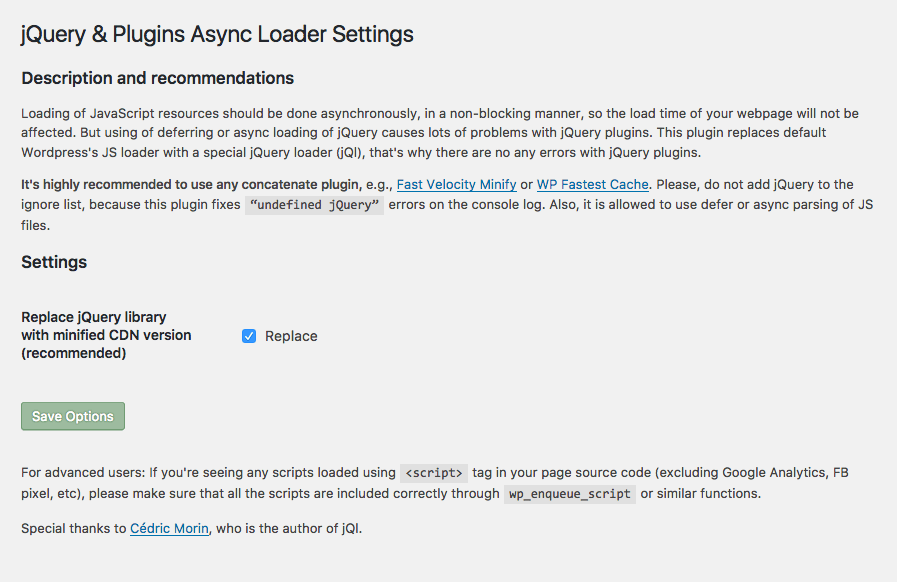
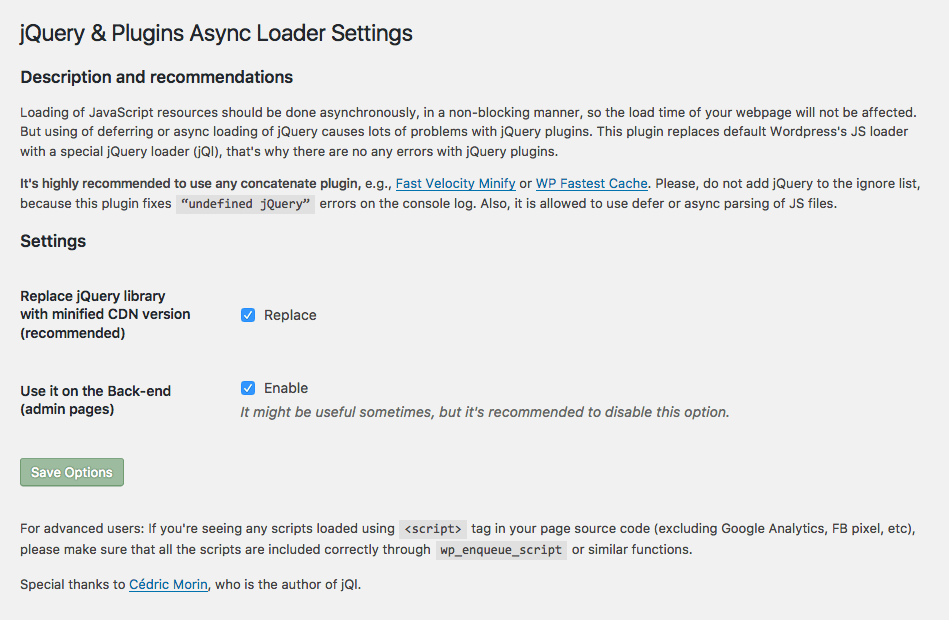
Minor bug fixes, admin processing, RU translation

diff --git a/trunk/jquery-async-loader.php b/trunk/jquery-async-loader.php
@@ -5,7 +5,7 @@
  * Description: Loading of JavaScript resources should be done asynchronously, in a non-blocking manner, so the load time of your webpage will not be affected. But using of deferring or async loading of jQuery causes lots of problems with jQuery plugins. This plugin replaces default Wordpress's JS loader with a special jQuery loader (jQl), that's why there are no any errors with jQuery plugins.
  * Author: Vitalii Rizo
  * Author URI: http://squirrel-research.ru
- * Version: 1.0
+ * Version: 1.1
  * Text Domain: jquery-async-loader
  *
  * Copyright: (c) 2017 Vitalii Rizo (kb@kernel-it.ru)
@@ -34,7 +34,7 @@ add_action( 'plugins_loaded', 'init_jquery_async_loader_options' );
 
 class jquery_async_loader_options {
 	// Current plugin version:
-	const VERSION = '1.0.0';
+	const VERSION = '1.1.0';
 	
 	// @var jquery_async_loader_options single instance of this plugin
 	protected static $instance;
@@ -64,6 +64,13 @@ class jquery_async_loader_options {
 				$this,
 				'add_plugin_links' 
 			) );
+
+			// add jQuery loader
+			add_action( 'admin_enqueue_scripts', array (
+				$this,
+				'jQuery_loader_script'
+			), 5 );
+
 		} else {
 			// Do things in front end
 			add_action( 'init', array (
@@ -76,14 +83,15 @@ class jquery_async_loader_options {
 				$this,
 				'jQuery_loader_script'
 			), 5 );
-			
-			// Modify <script> tags
-			add_filter( 'script_loader_tag', array (
-				$this,
-				'modify_script_tags'
-			), 10, 2 );
 
 		}
+
+		// Modify <script> tags
+		add_filter( 'script_loader_tag', array (
+			$this,
+			'modify_script_tags'
+		), 10, 2 );
+
 	}
 	
 	// Ensures only one instance is/can be loaded
@@ -145,8 +153,15 @@ class jquery_async_loader_options {
 	}
 
 	public function modify_script_tags( $tag ) {
+
+		$defaults = array(
+			'replace_jquery' => 1,
+			'enable_on_backend' => 0
+		);
+		$options = wp_parse_args(get_option('jquery_async_loader_options'), $defaults);
+
 		// Additional check to be sure that this code is not executed on admin pages:
-		if( is_admin() ) {
+		if( ( is_admin() ) && ( $options['enable_on_backend'] !== 1 ) ) {
 			return $tag;
 		}
 		
@@ -205,20 +220,21 @@ class jquery_async_loader_options {
 			$_REQUEST['settings-updated'] = false;
 		?>
 		<div class="wrap">
-			<h1><?php _e( 'jQuery & Plugins Async Loader Settings', 'jquery_async_loader' ) ?></h1>
+			<h1><?php _e( 'jQuery & Plugins Async Loader Settings', 'jquery-async-loader' ) ?></h1>
 			
 			<form action="options.php" method="post">
 				<?php
 				settings_fields('jquery_async_loader_options');
 				$defaults = array(
 					'replace_jquery' => 1,
+					'enable_on_backend' => 0
 				);
 				$options = wp_parse_args(get_option('jquery_async_loader_options'), $defaults);
 				?>
 			
-				<h2 class="title"><?php _e('Description and recommendations', 'jquery_async_loader'); ?></h2>
+				<h2 class="title"><?php _e('Description and recommendations', 'jquery-async-loader'); ?></h2>
 
-				<p><?php _e( "Loading of JavaScript resources should be done asynchronously, in a non-blocking manner, so the load time of your webpage will not be affected. But using of deferring or async loading of jQuery causes lots of problems with jQuery plugins. This plugin replaces default Wordpress's JS loader with a special jQuery loader (jQl), that's why there are no any errors with jQuery plugins.", 'jquery_async_loader' ); ?></p>
+				<p><?php _e( 'Loading of JavaScript resources should be done asynchronously, in a non-blocking manner, so the load time of your webpage will not be affected. But using of deferring or async loading of jQuery causes lots of problems with jQuery plugins. This plugin replaces default Wordpress\'s JS loader with a special jQuery loader (jQl), that\'s why there are no any errors with jQuery plugins.', 'jquery-async-loader' ); ?></p>
 
 				<p><?php echo sprintf( /* translators: %1$s and %2$s are <strong> tags. %3$s and %4$s are links to the plugins. %5$s and %$6s code tags with quotes. */ esc_html__( '%1$sIt\'s highly recommended to use any concatenate plugin,%2$s e.g., %3$s or %4$s.  Please, do not add jQuery to the ignore list, because this plugin fixes %5$sundefined jQuery%6$s errors on the console log. Also, it is allowed to use defer or async parsing of JS files.', 'jquery-async-loader' ), '<strong>', '</strong>', '<a href="https://wordpress.org/plugins/fast-velocity-minify/" target="_blank">Fast Velocity Minify</a>', '<a href="https://wordpress.org/plugins/wp-fastest-cache/" target="_blank">WP Fastest Cache</a>', '<code>&#147;', '&#148;</code>' ); ?></p>
 
@@ -229,13 +245,18 @@ class jquery_async_loader_options {
 						<td><input id="jquery_async_loader_options[replace_jquery]" name="jquery_async_loader_options[replace_jquery]" type="checkbox" value="1" <?php checked( '1', $options['replace_jquery'] ); ?> />
 						<label class="description" for="jquery_async_loader_options[replace_jquery]"><?php _e( 'Replace', 'jquery-async-loader' ); ?></label></td>
 					</tr>
+					<tr valign="top">
+						<th scope="row"><?php _e( 'Use it on the&nbsp;Back-end (admin&nbsp;pages)', 'jquery-async-loader' ); ?></th>
+						<td><input id="jquery_async_loader_options[enable_on_backend]" name="jquery_async_loader_options[enable_on_backend]" type="checkbox" value="1" <?php checked( '1', $options['enable_on_backend'] ); ?> />
+						<label class="description" for="jquery_async_loader_options[enable_on_backend]"><?php _e( 'Enable', 'jquery-async-loader' ); ?></label><p class="description"><?php _e('It might be useful sometimes, but it\'s recommended to disable this option.', 'jquery-async-loader' ); ?></p></td>
+					</tr>
 
 				</table>
 				<p class="submit">
 					<input type="submit" class="button-primary" value="<?php _e( 'Save Options', 'jquery-async-loader' ); ?>" />
 				</p>
 
-				<p><?php echo sprintf( /* translators: %1$s and %2$s are <code> tags. */ esc_html__( 'For advanced users: If you\'re seeing any scripts loaded using %1$s<script>%2$s tag in your page source code (excluding Google Analytics, FB pixel, etc), please make sure that all the scripts are included correctly through %1$swp_enqueue_script%2$s or similar functions.', 'jquery_async_loader' ), '<code>', '</code>' ); ?></p>
+				<p><?php echo sprintf( /* translators: %1$s and %2$s are <code> tags. */ esc_html__( 'For advanced users: If you\'re seeing any scripts loaded using %1$s<script>%2$s tag in your page source code (excluding Google Analytics, FB pixel, etc), please make sure that all the scripts are included correctly through %1$swp_enqueue_script%2$s or similar functions.', 'jquery-async-loader' ), '<code>', '</code>' ); ?></p>
 
 				<p><?php echo sprintf( /* translators: %1$s is a link to Cerdic Morin github page. */ esc_html__( 'Special thanks to %1$s, who is the author of jQl.', 'jquery-async-loader' ), '<a href="https://github.com/Cerdic/jQl" target="_blank">Cédric Morin</a>' ); ?></p>
 			</form>
@@ -249,6 +270,10 @@ class jquery_async_loader_options {
 		if ( ! isset( $input['replace_jquery'] ) )
 			$input['replace_jquery'] = null;
 		$input['replace_jquery'] = ( $input['replace_jquery'] == 1 ? 1 : 0 );
+
+		if ( ! isset( $input['enable_on_backend'] ) )
+			$input['enable_on_backend'] = null;
+		$input['enable_on_backend'] = ( $input['enable_on_backend'] == 1 ? 1 : 0 );
 
 		return $input;
 	}

diff --git a/README.md b/README.md
@@ -1,14 +1,14 @@
 # Wordpress jQuery & plugins Async Loader
 This plugin asynchronously load jQuery and plugins without "jQuery is undefined" errors.
 
-Loading of JavaScript resources should be done asynchronously, in a non-blocking manner, so the load time of your webpage will not be affected. But using of deferring or async loading of jQuery causes lots of problems with jQuery plugins. This plugin replaces default Wordpress's JS loader with a special jQuery loader (jQl), that's why there are no any errors with jQuery plugins.
+Loading of JavaScript resources should be done asynchronously, in a non-blocking manner, so the load time of your webpage will not be affected (it would not be delayed by render-blocking JavaScript). But using of deferring or async loading of jQuery causes lots of problems with jQuery plugins. This plugin replaces default Wordpress's JS loader with a special jQuery loader (jQl), that's why there are no any errors with jQuery plugins.
 Maintained by [me](https://www.upwork.com/freelancers/~019842b9db9697a094).
 
 It's highly recommended to use any concatenate plugin, e.g., Fast Velocity Minify or WP Fastest Cache. Please, do not add jQuery to the ignore list, because this plugin fixes “undefined jQuery” errors on the console log. Also, it is allowed to use defer or async parsing of JS files.
 
 It requires Wordpress 4.1 and newer.
 
-It is available in English :gb:/:us: only for now.
+It is available in English :gb:/:us: and Russian :ru: only.
 
 
 ## Wordpress Plugin Directory
@@ -25,11 +25,15 @@ It is available in English :gb:/:us: only for now.
 3. And finally it replaces all <script> tags with a special function.
 
 ## Screenshot
-<img src="/assets/screenshot-1.png" align="center" height="582" width="897" alt="jQuery Async Loader Settings Page" >
+<img src="/assets/screenshot-1.png" align="center" height="620" width="949" alt="jQuery Async Loader Settings Page" >
 
 ## Having any troubles or ideas?
 Please contact [me by email](mailto:kb@kernel-it.ru).
 
 ## Changelog
+v. 1.1
+* Added admin pages processing option
+* Russian translation
+
 v. 1.0
 * Initial release
